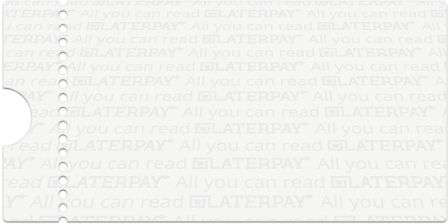
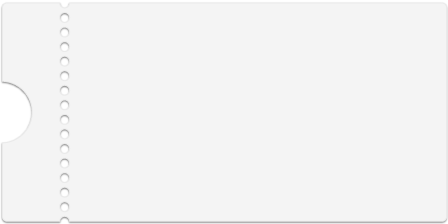
wp19 time pass new background

diff --git a/laterpay/asset_sources/scss/components/_time_pass.scss b/laterpay/asset_sources/scss/components/_time_pass.scss
@@ -29,10 +29,12 @@
 }
 
 .lp_time-pass__front {
+    background: url('../img/time-pass-background.png') 0 0 / 100% no-repeat;
     padding: $fs (4 * $fs) $fs $fs;
 }
 
 .lp_time-pass__back {
+    background: url('../img/time-pass-background-flip.png') 0 0 / 100% no-repeat;
     display: none;
     padding: $fs $fs $fs (4 * $fs);
 }
@@ -311,10 +313,12 @@
     }
 
     .lp_time-pass__front {
+        background: url(../img/time-pass-background-small.png) 0 0 / 100% no-repeat !important;
         padding: $fs--05 (6 * $fs--05) $fs--05 $fs--05 !important;
     }
 
     .lp_time-pass__back {
+        background: url(../img/time-pass-background-flip-small.png) 0 0 / 100% no-repeat !important;
         padding: $fs--05 $fs--05 $fs--05 (6 * $fs--05) !important;
     }
 
